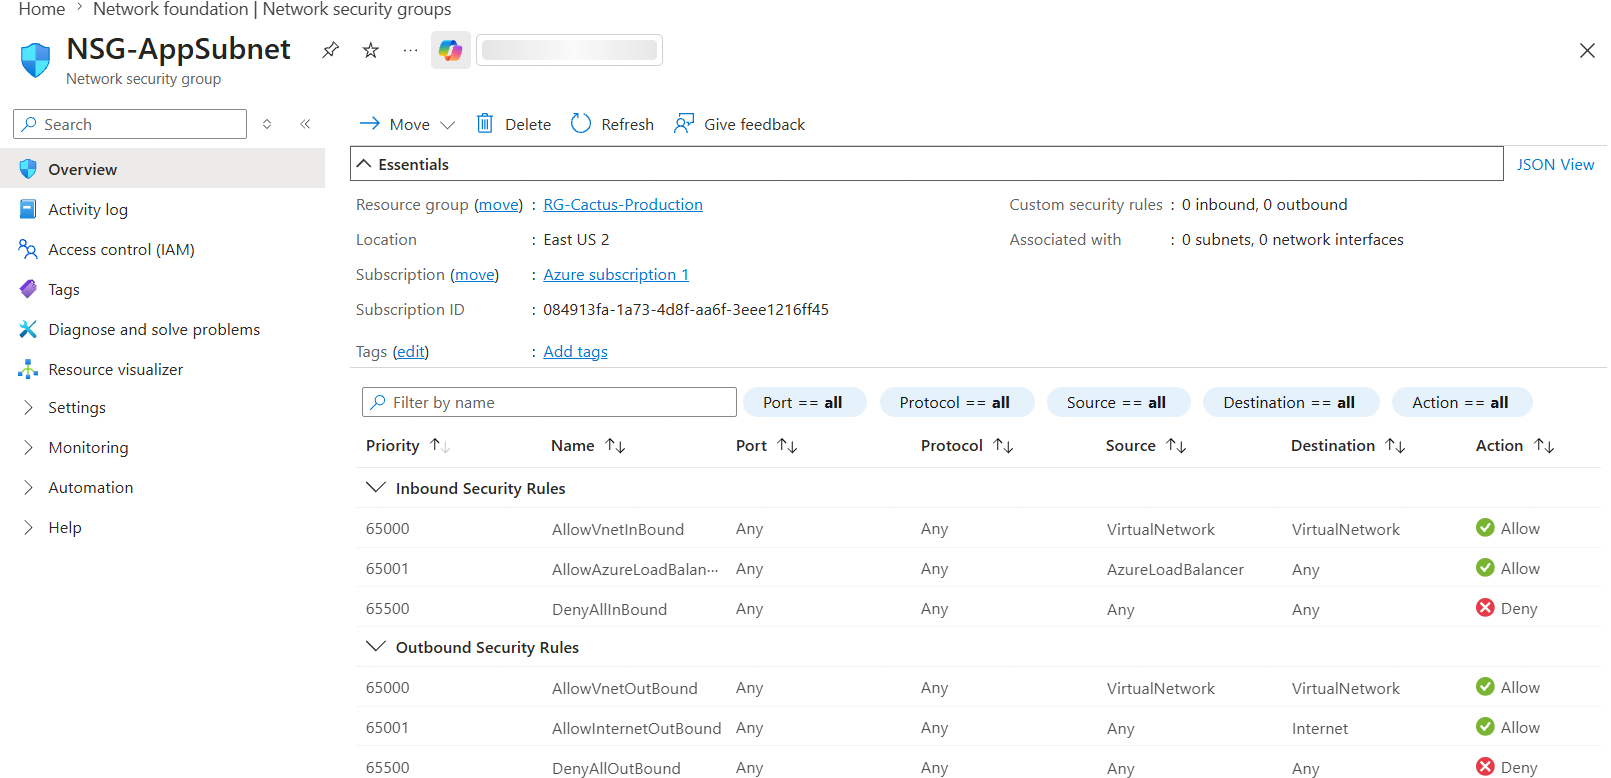
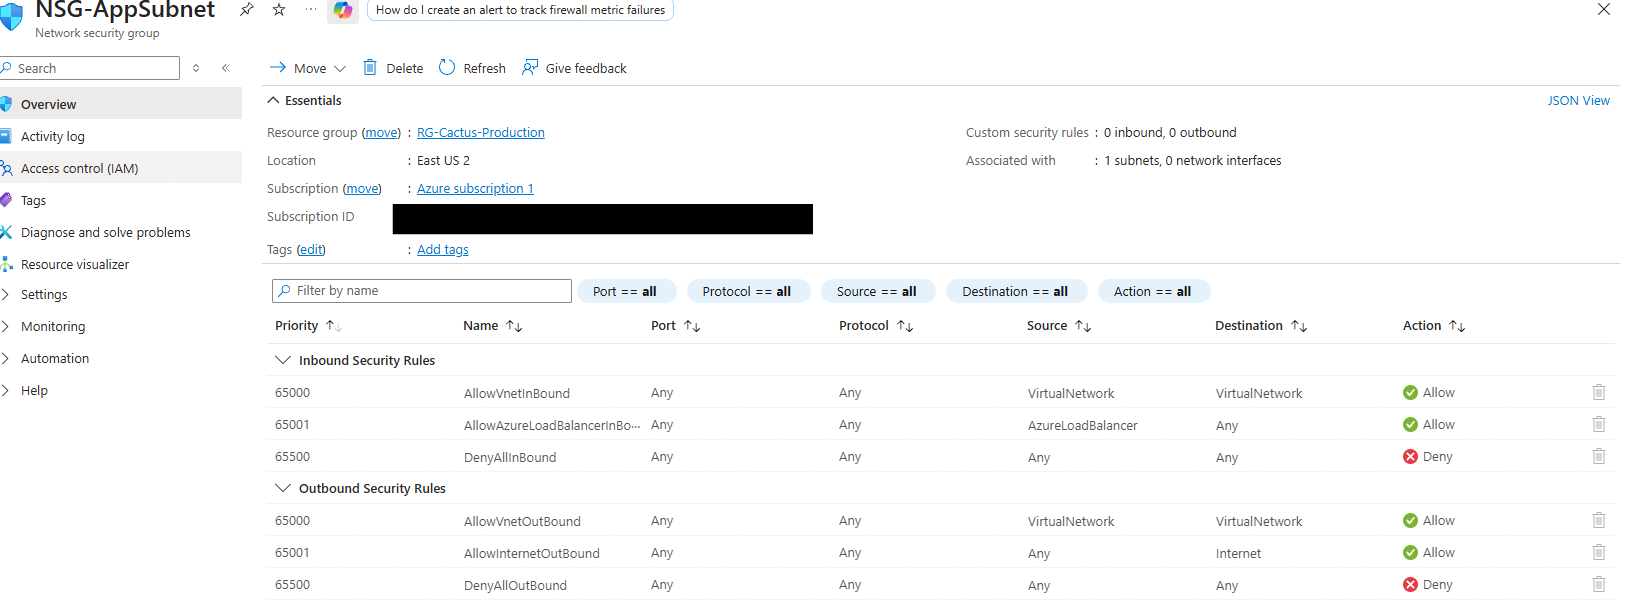
Azure screenshots cleanup and update Day 7 RBAC documentation

diff --git a/cloud-journey/project-2-azure-infrastructure/notes/day-7-identity-access-management.md b/cloud-journey/project-2-azure-infrastructure/notes/day-7-identity-access-management.md
@@ -1,0 +1,47 @@
+# Day 7 - Identity & Access Management
+
+## Objective 
+
+Implement Role-Based Access Control (RBAC) to provide secure access to Azure resources.
+
+## Bsuiness Scenario
+
+Cactus Manufacturing is expanding its IT team.
+New employees require access to Azure resources, but they should only receive the permissions necessary to perform their jobs.
+
+## Business Problem 
+
+Granting every employee Owner permissions increases the risk of accidental changes or resource deletion.
+The company needs a way to control access while following the principle of least priveledge.
+
+## Resources Configured
+
+- Azure Role Assignment
+
+Role Used:
+
+- Virtual Machine Contributor
+
+Scope:
+
+- RG-Cactus-Production
+
+
+## Design Decisions 
+
+- Used a built-in Azure role instead of creating a custom role.
+- Assigned permissions at Resource Group level.
+- Followed the principle of least pivilege
+
+## Business Impact 
+
+Employees can perform their assigned responsibilities without receving unnecessary administrative permissions.
+This reduces operational risk while supporting future team growth.
+
+
+## Key Takeways
+
+- ENtra ID Manages identities. 
+- RBAC manages permissions.
+- Least privilege is a core security principle.
+- Built-in roles should be used whenever possible.

diff --git a/cloud-journey/project-2-azure-infrastructure/README.md b/cloud-journey/project-2-azure-infrastructure/README.md
@@ -44,6 +44,7 @@ This project simulates how an infrastructure team would design, deploy, and mana
 - Azure Virtual Machines
 - Azure Storage 
 - Azure Monitor *(Upcoming)*
+-Azure Role-Based Access Control (RBAC)
 - Git
 - GitHub
 - Markdown
@@ -111,6 +112,9 @@ Additional infrastructure will be added throughout the project.
 - Created Azure Storage Account
 - Added centralized cloud storage 
 - Completed Day 6 documentation
+- Configured Azure Role-Based Access Control
+- Assigned Virtual Machine Contributor role
+- Completed Day 7 documentation
 ### In Progress
 
 - Enterprise Infrastructure Expansion
@@ -144,6 +148,7 @@ project-2-azure-infrastructure/
 │   ├── day-4-network-security-groups.md
 │   ├── day-5-virtual-machines.md
 │   └── day-6-storage-accounts.md
+│   └── day-7-identity-access-management.md
 │
 ├── screenshots/
 │   ├── day2-resource-group.png
@@ -163,6 +168,9 @@ project-2-azure-infrastructure/
 │   ├── day6-storage-overview.png
 │   ├── day6-storage-containers.png
 │   └── day6-resource-group.png
+│   ├── day7-iam-overview.png
+│   ├── day7-role-assignment.png
+│   └── day7-built-in-roles.png
 │
 └── diagrams/
 ```
